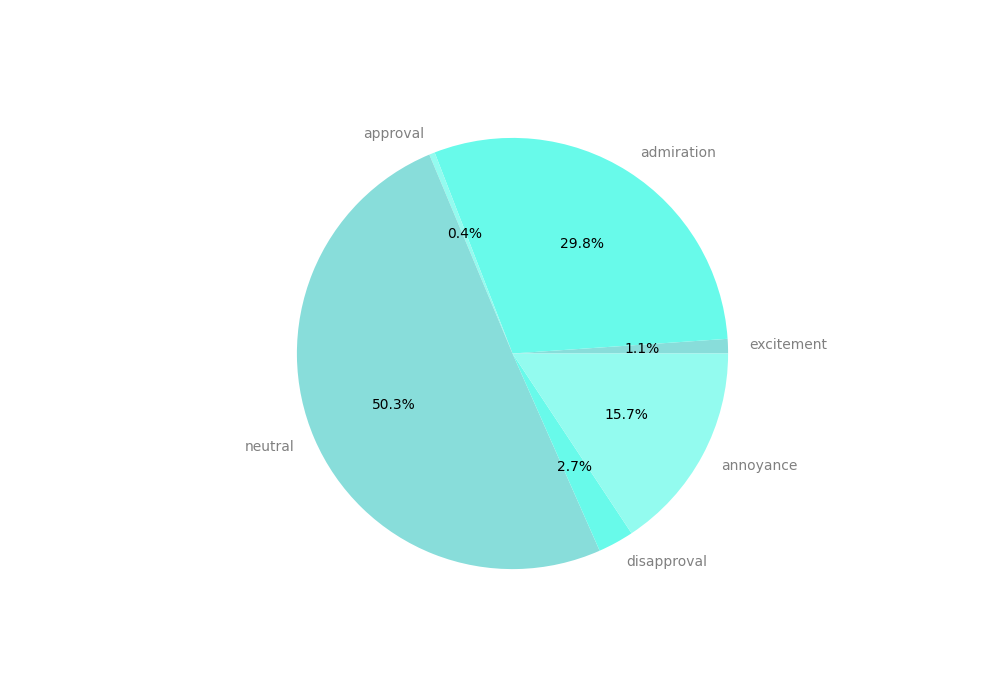
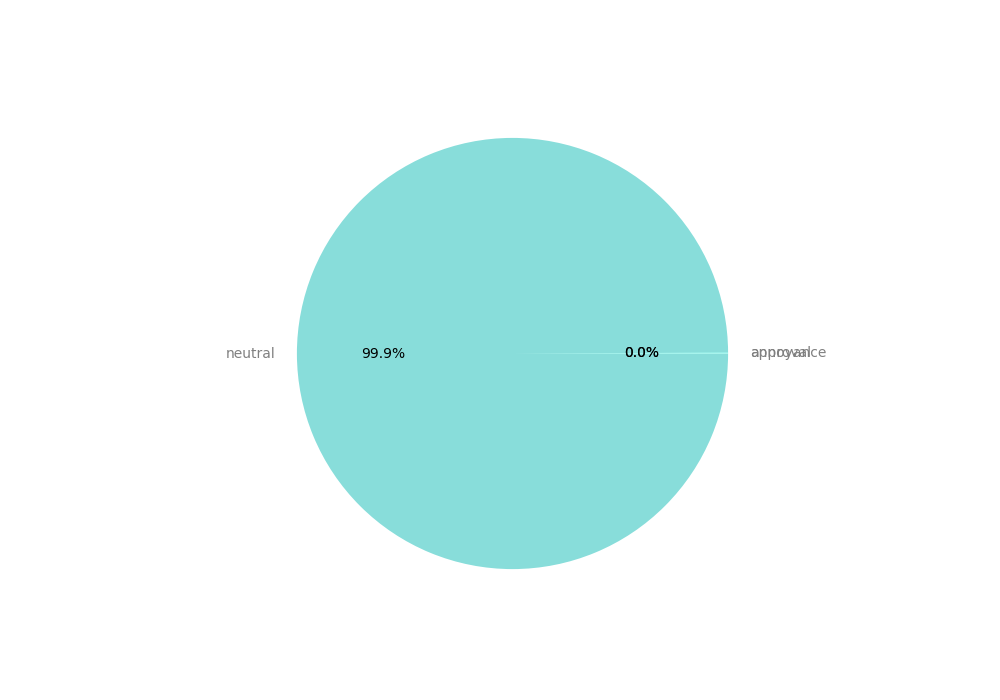
fix

diff --git a/backend.py b/backend.py
@@ -5,7 +5,7 @@ from firebase_admin import credentials, firestore
 import openai
 import torch
 import torch.nn.functional as F
-from datetime import datetime
+import random
 
 # from nltk.corpus import stopwords
 
@@ -14,7 +14,7 @@ model = AutoModelForSequenceClassification.from_pretrained("SamLowe/roberta-base
 
 # nltk_words = list(stopwords.words('english'))
 
-openai.api_key = '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'
+openai.api_key = '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'
 
 cred = credentials.Certificate('data.json')
 firebase_admin.initialize_app(cred)
@@ -231,7 +231,7 @@ def createUser(name,userID):
 def plotPie(labels, data):
     colors = ['#88ddda', '#68FAEA', '#93FBEF']
     fig = plt.figure(figsize=(10, 7))
-    patches, texts, autotexts = plt.pie(data, labels=labels, colors=colors, autopct='%1.1f%%', )
+    patches, texts, autotexts = plt.pie(data, labels=labels, colors=colors, autopct='%1.1f%%', counterclock=False)
 
     for text in texts:
         text.set_color('grey')

diff --git a/app.py b/app.py
@@ -58,7 +58,7 @@ def login():
 
             user = authentication.sign_in_with_email_and_password(email, password)
             flask.session["user"] = user["localId"]
-            return flask.render_template("dashboard.html")
+            return flask.redirect("/")
         except:
             return flask.render_template("login.html", error="Account does not exist!")
 
@@ -96,7 +96,6 @@ def logout():
 def analyze():
     if flask.session.get("user"):
         emotions = totalStats(flask.session["user"])
-
         plotPie(emotions.keys(), emotions.values())
 
         return flask.render_template("data.html", emotions=emotions, pie_path="static/img/pie.png")
